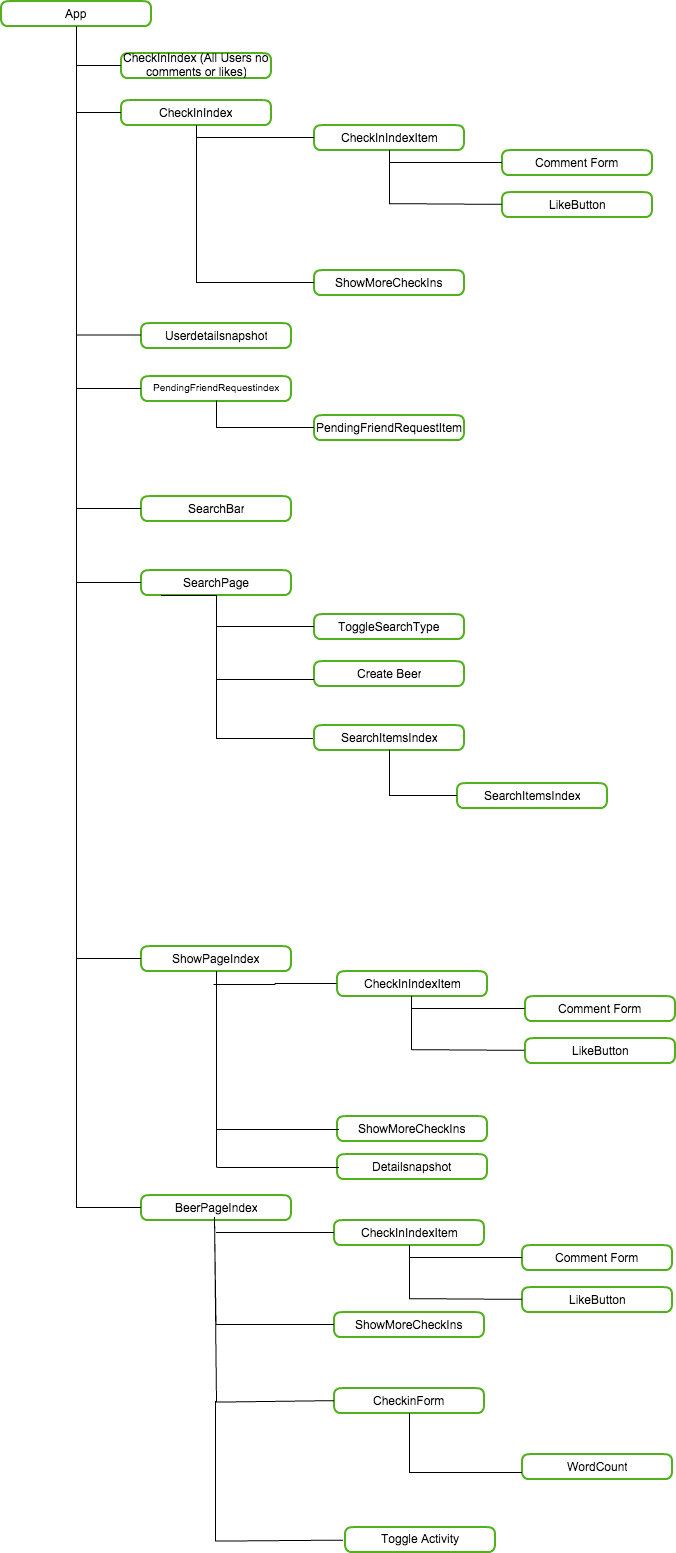
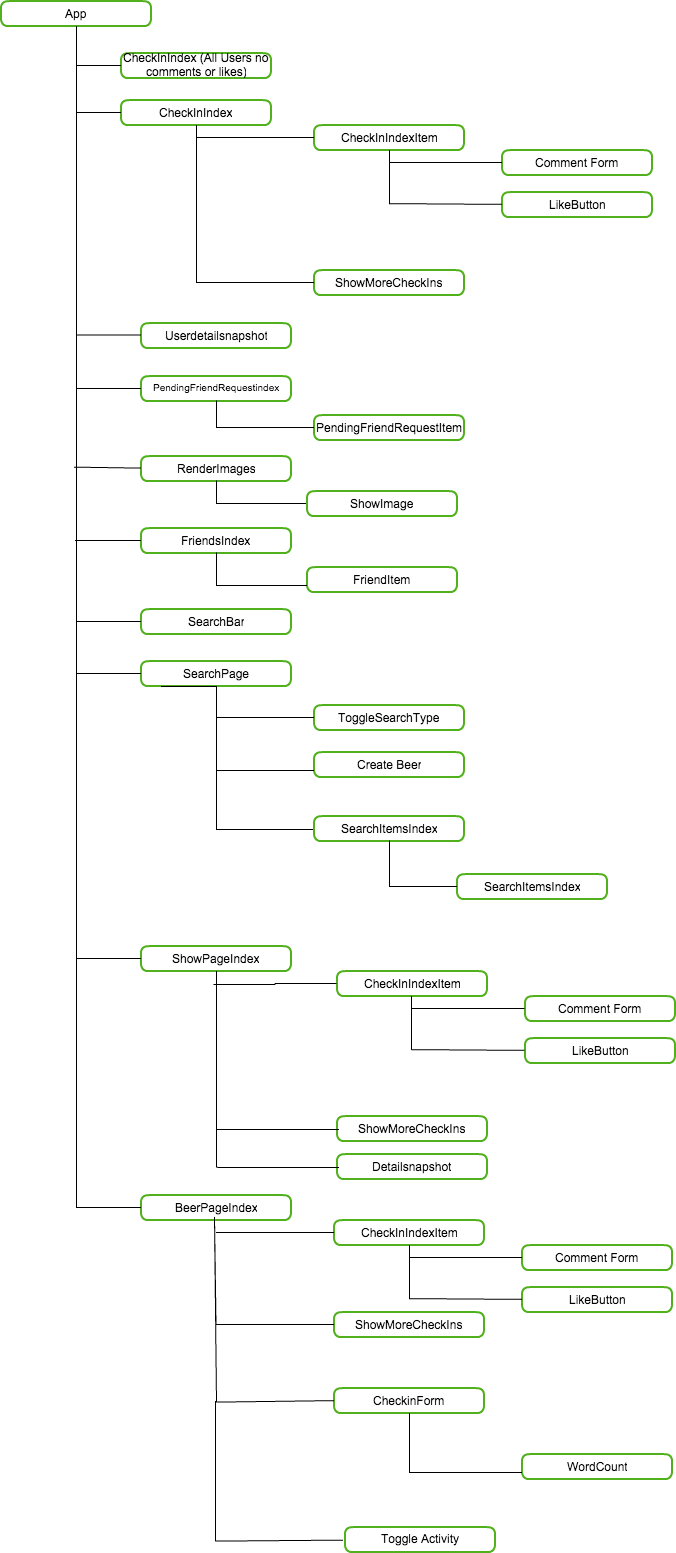
Update component hierarchy

diff --git a/docs/phases/phase5.md b/docs/phases/phase5.md
@@ -18,6 +18,7 @@
   * FriendIndex
   * FriendSearchBar
   * RenderImages
+    - ShowImage
 
 ### Stores
   * Friend
